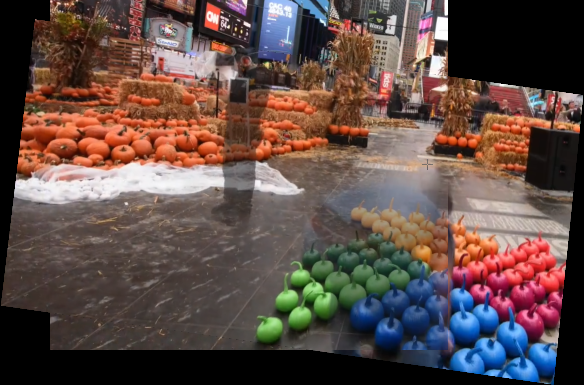
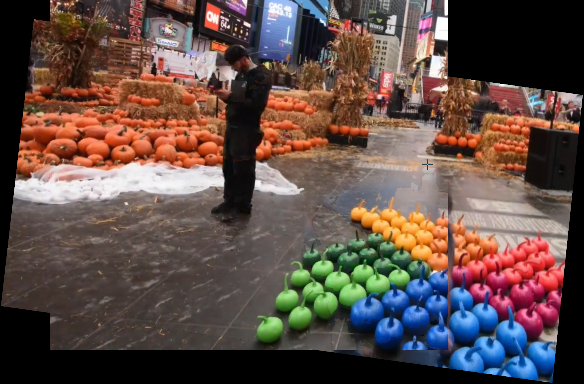
refine blending func

diff --git a/stitching.py b/stitching.py
@@ -178,21 +178,29 @@ def build_output_canvas(img1_bchw: torch.Tensor, img2_bchw: torch.Tensor, H_21: 
 
 
 def blend_two_images(img1_warped: torch.Tensor, img2_warped: torch.Tensor,
-                      mask1: torch.Tensor, mask2: torch.Tensor) -> torch.Tensor:
+                     mask1: torch.Tensor, mask2: torch.Tensor) -> torch.Tensor:
     """
-    Blend two warped images together using their masks to handle overlaps.
-    Args:
-        img1_warped: warped image 1 in the output canvas frame
-        img2_warped: warped image 2 in the output canvas frame
-        mask1: binary mask indicating valid pixels in img1_warped
-        mask2: binary mask indicating valid pixels in img2_warped
-    Returns:
-        blended: blended output image
+    Blend two warped images while reducing foreground ghosting.
+    Strategy:
+      - if only one image has a valid pixel, use it
+      - if both are valid and similar, average them
+      - if both are valid but very different, prefer img1
     """
-    weight = mask1 + mask2
-    weight = torch.clamp(weight, min=1.0)
-    blended = (img1_warped * mask1 + img2_warped * mask2) / weight
-    return blended
+    only1 = mask1 * (1.0 - mask2)
+    only2 = mask2 * (1.0 - mask1)
+    both = mask1 * mask2
+
+    diff = torch.mean(torch.abs(img1_warped - img2_warped), dim=1, keepdim=True)
+
+    similar = (diff < 0.12).float()
+    different = 1.0 - similar
+
+    avg_part = ((img1_warped + img2_warped) / 2.0) * both * similar
+
+    choose1_part = img1_warped * both * different
+
+    out = img1_warped * only1 + img2_warped * only2 + avg_part + choose1_part
+    return out
 
 # main task 1 function
 def stitch_background(imgs: Dict[str, torch.Tensor]):
@@ -200,10 +208,8 @@ def stitch_background(imgs: Dict[str, torch.Tensor]):
     Args:
         imgs: input images are a dict of 2 images of torch.Tensor represent an input images for task-1.
     Returns:
-        img: stitched_image: torch.Tensor of the output image.
+        stitched: torch.Tensor of the stitched background image
     """
-    img = torch.zeros((3, 256, 256)) # assumed 256*256 resolution. Update this as per your logic.
-
     #TODO: Add your code here. Do not modify the return and input arguments.
     names = sorted(list(imgs.keys()))
     assert len(names) == 2, "Task 1 expects exactly two input images."
@@ -240,6 +246,13 @@ def stitch_background(imgs: Dict[str, torch.Tensor]):
 
     matched_pts1 = pts1_all[idxs[:, 0]]
     matched_pts2 = pts2_all[idxs[:, 1]]
+
+    # refine homography using only inliers
+    H_21 = K.geometry.find_homography_dlt(
+        matched_pts2.unsqueeze(0),
+        matched_pts1.unsqueeze(0)
+    )
+
 
     # estimating homography using RANSAC to find inliers
     H_21, inliers = compute_homography_ransac(matched_pts1, matched_pts2)